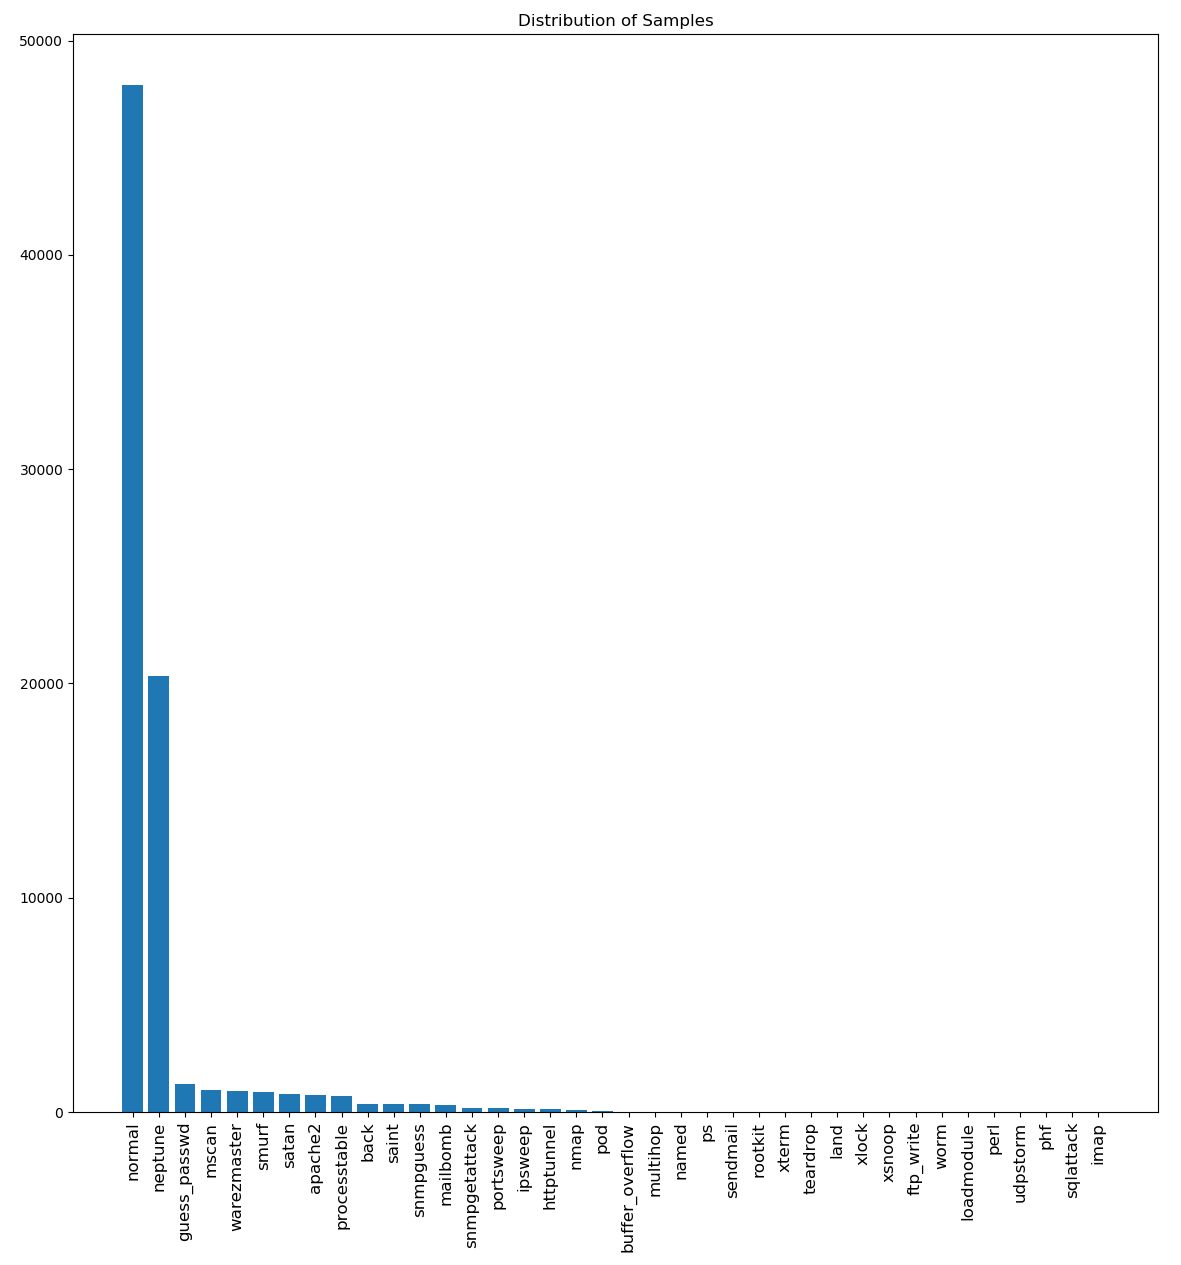
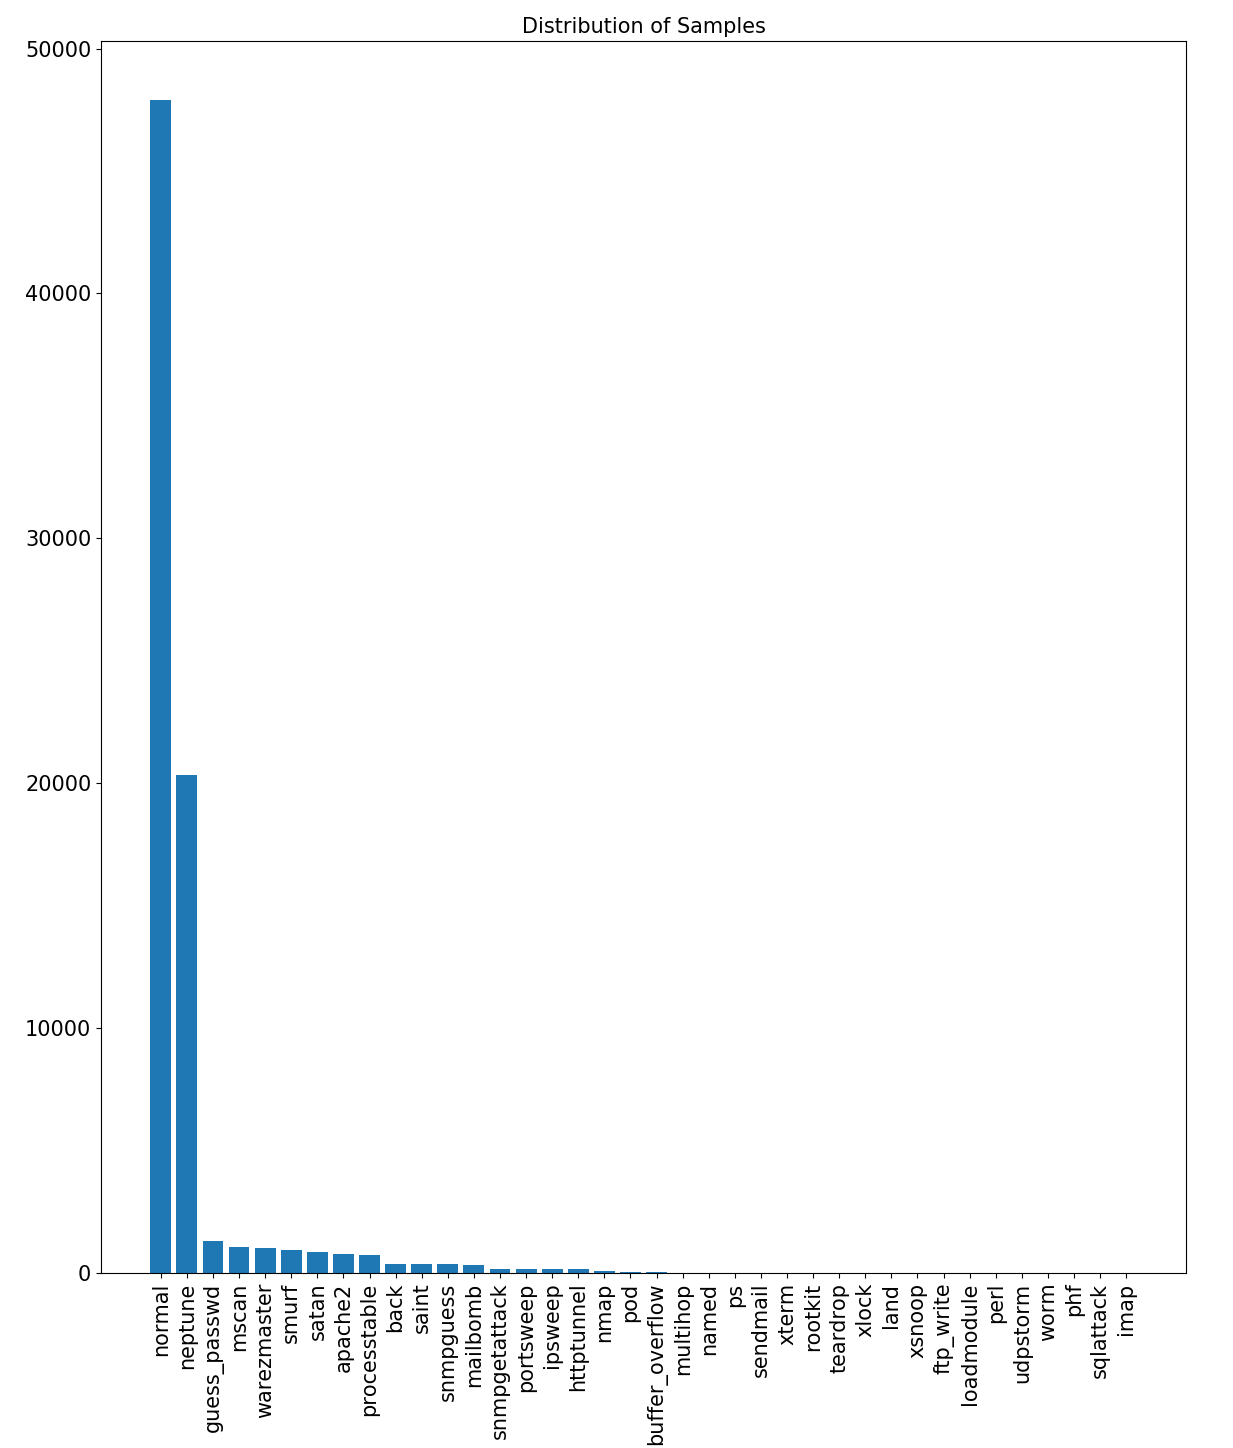
made them labels DUMMY THICC

Changed region(s): [[0.0, 0.0617, 0.945, 1.0], [0.3963, 0.0, 0.6401, 0.0308], [0.0305, 0.0308, 0.0914, 0.0617]]

diff --git a/src/data_preprocessing/remove_duplicates.py b/src/data_preprocessing/remove_duplicates.py
@@ -23,14 +23,15 @@ def count_plot(labels):
         else:
             label_dict[l] += 1
     label_dict = OrderedDict(sorted(label_dict.items(), key=itemgetter(1), reverse=True))
-    fig = plt.figure(figsize=(14, 14))
+    fig = plt.figure(figsize=(14, 16))
     plt.bar(label_dict.keys(), label_dict.values())
-    plt.xticks(rotation=90, fontsize='large')
+    plt.xticks(rotation=90, fontsize=15)
+    plt.yticks(fontsize=15)
     # plt.title("Distribution of Attacks Without Neptune")
     # plt.savefig("../graphs/attacks_without_neptune.png")
     # plt.title("Distribution of Attacks Only")
     # plt.savefig("../graphs/attacks_only.png")
-    plt.title("Distribution of Samples", fontsize='large')
+    plt.title("Distribution of Samples", fontsize=15)
     plt.savefig("../graphs/all_samples.png", bbox='tight_layout')
 
 
